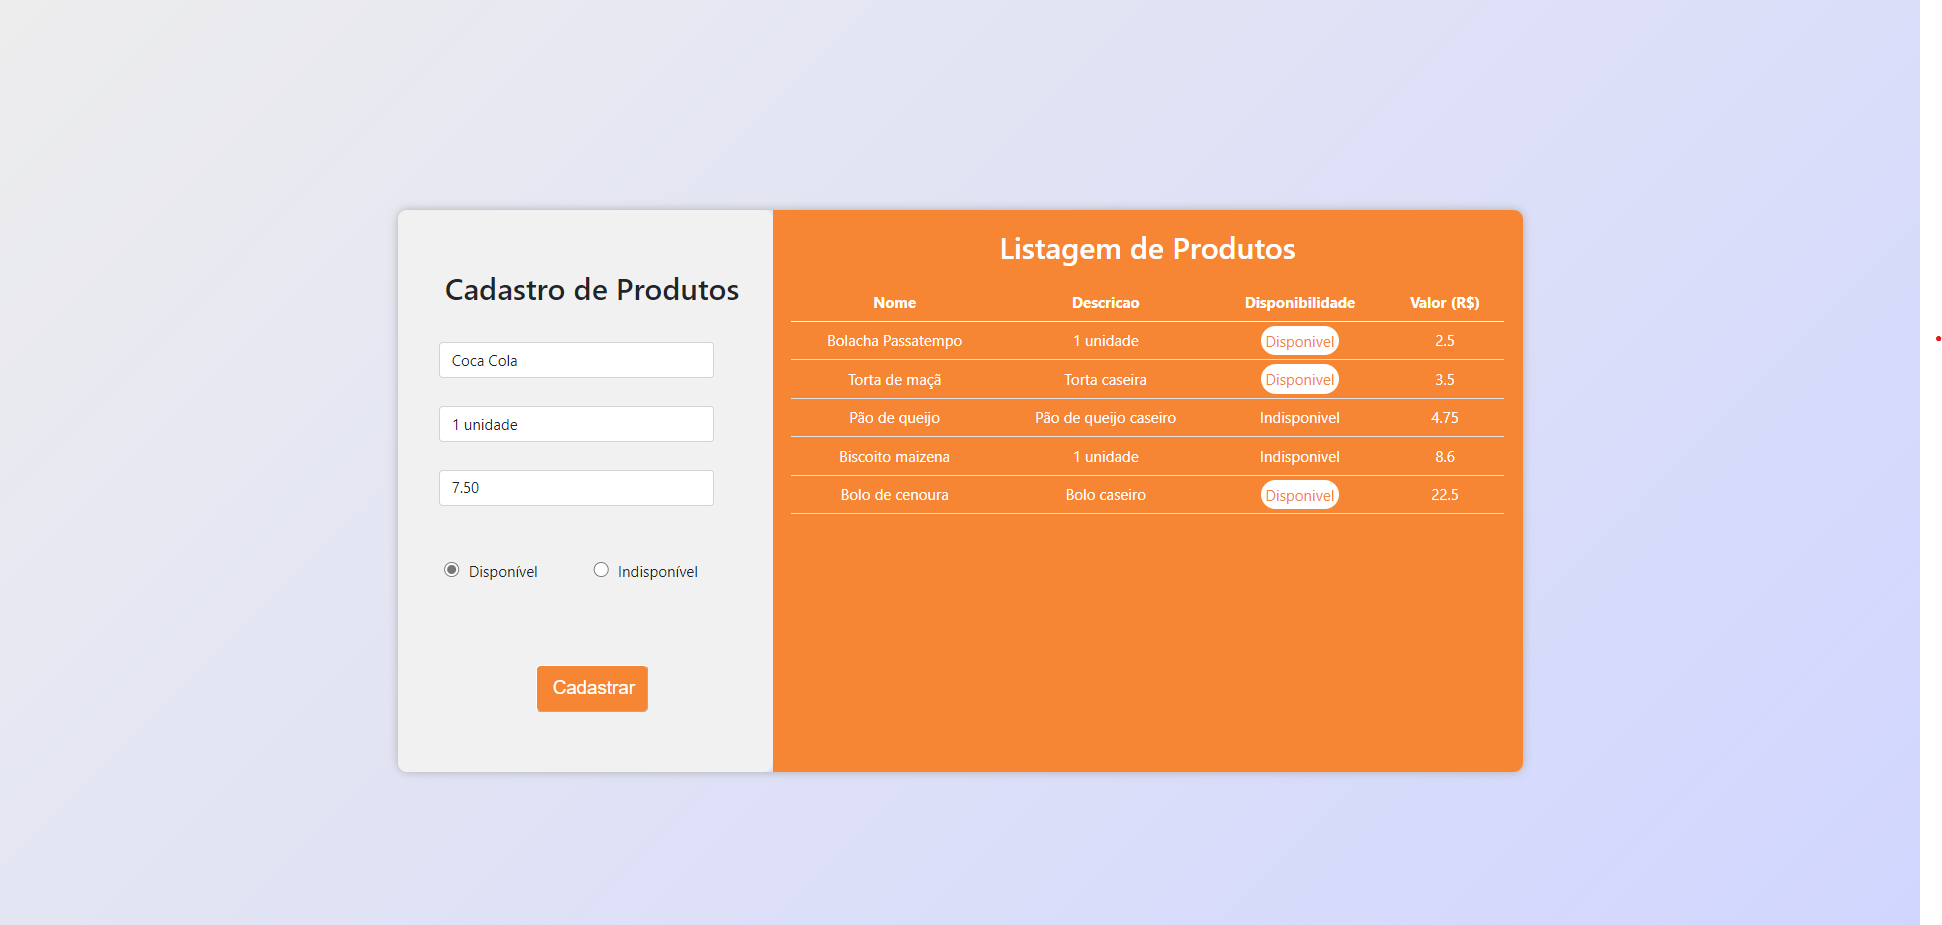
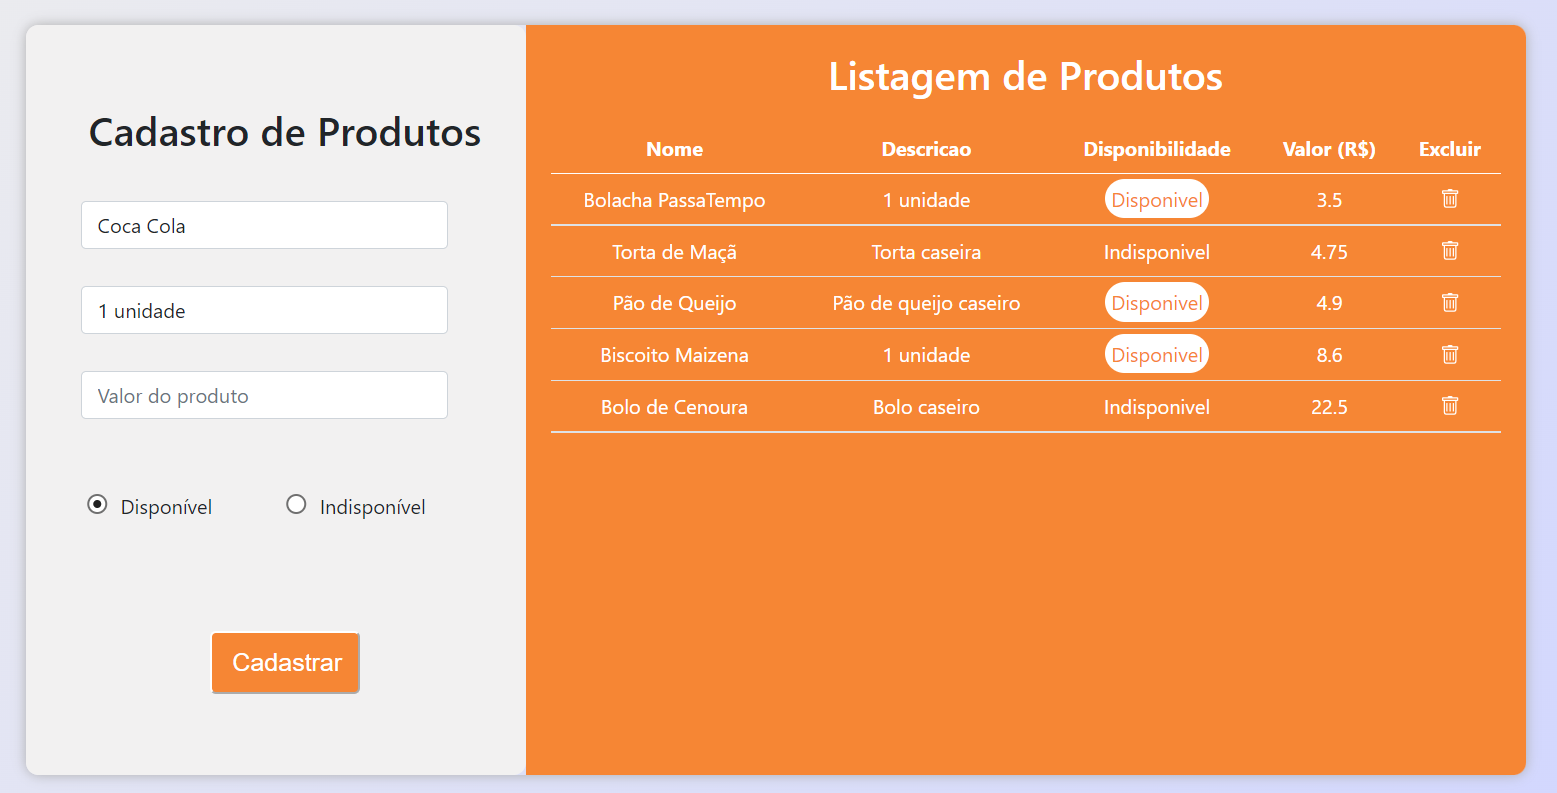
adicionado função de excluir

diff --git a/src/js/funcoes.js b/src/js/funcoes.js
@@ -23,11 +23,15 @@ function cadastrar(){
         headers: {"Content-type": "application/json; charset=UTF-8"}
       })
 
-      document.getElementById('nome-produto').value='';
-
       alert('Cadastrado com sucesso!')
       console.log(_data)
       listar();
+}
+
+function excluir(id){
+  fetch(`http://localhost:3000/products/${id}`, {
+    method: "DELETE"
+  })
 }
 
 function listar(){
@@ -65,6 +69,10 @@ function listar(){
             <td> ${product.description}</td>
             <td><span style="background-color: white; color: #F68634; padding: 5px; border-radius: 50px;"> ${aux} </span></td>
             <td> ${product.value}</td>
+            <td> <svg style="fill: white; cursor: pointer; height: 20px; width: 15px" onclick="excluir(${product.id})"> xmlns="http://www.w3.org/2000/svg" width="16" height="16" fill="currentColor" class="bi bi-trash" viewBox="0 0 16 16">
+            <path d="M5.5 5.5A.5.5 0 0 1 6 6v6a.5.5 0 0 1-1 0V6a.5.5 0 0 1 .5-.5zm2.5 0a.5.5 0 0 1 .5.5v6a.5.5 0 0 1-1 0V6a.5.5 0 0 1 .5-.5zm3 .5a.5.5 0 0 0-1 0v6a.5.5 0 0 0 1 0V6z"/>
+            <path fill-rule="evenodd" d="M14.5 3a1 1 0 0 1-1 1H13v9a2 2 0 0 1-2 2H5a2 2 0 0 1-2-2V4h-.5a1 1 0 0 1-1-1V2a1 1 0 0 1 1-1H6a1 1 0 0 1 1-1h2a1 1 0 0 1 1 1h3.5a1 1 0 0 1 1 1v1zM4.118 4 4 4.059V13a1 1 0 0 0 1 1h6a1 1 0 0 0 1-1V4.059L11.882 4H4.118zM2.5 3V2h11v1h-11z"/>
+          </svg></td>
           </tr>
           `;
         }
@@ -77,15 +85,15 @@ function listar(){
             <td> ${product.description}</td>
             <td><span> ${aux} </span></td>
             <td> ${product.value}</td>
+            <td> <svg style="fill: white; cursor: pointer; white; height: 20px; width: 15px" onclick="excluir(${product.id})"> xmlns="http://www.w3.org/2000/svg" width="16" height="16" fill="currentColor" class="bi bi-trash" viewBox="0 0 16 16">
+            <path d="M5.5 5.5A.5.5 0 0 1 6 6v6a.5.5 0 0 1-1 0V6a.5.5 0 0 1 .5-.5zm2.5 0a.5.5 0 0 1 .5.5v6a.5.5 0 0 1-1 0V6a.5.5 0 0 1 .5-.5zm3 .5a.5.5 0 0 0-1 0v6a.5.5 0 0 0 1 0V6z"/>
+            <path fill-rule="evenodd" d="M14.5 3a1 1 0 0 1-1 1H13v9a2 2 0 0 1-2 2H5a2 2 0 0 1-2-2V4h-.5a1 1 0 0 1-1-1V2a1 1 0 0 1 1-1H6a1 1 0 0 1 1-1h2a1 1 0 0 1 1 1h3.5a1 1 0 0 1 1 1v1zM4.118 4 4 4.059V13a1 1 0 0 0 1 1h6a1 1 0 0 0 1-1V4.059L11.882 4H4.118zM2.5 3V2h11v1h-11z"/>
+          </svg></td>
           </tr>
           `;
         }
       }
-        
-      
     }
-    
     placeholder.innerHTML = out;
-
   })
 }

diff --git a/index.html b/index.html
@@ -44,6 +44,7 @@
                     <th scope="col">Descricao</th>
                     <th scope="col">Disponibilidade</th>
                     <th scope="col">Valor (R$)</th>
+                    <th scope="col">Excluir</th>
                   </tr>
                 </thead>
                 <tbody id="data-output"></tbody>

diff --git a/src/css/style.css b/src/css/style.css
@@ -150,7 +150,7 @@ label {
     }
 
     .container1{
-        width: 370px;
+        max-width: 370px;
         display: flex;
         margin-top: -30px;
         margin-bottom: 40px;
